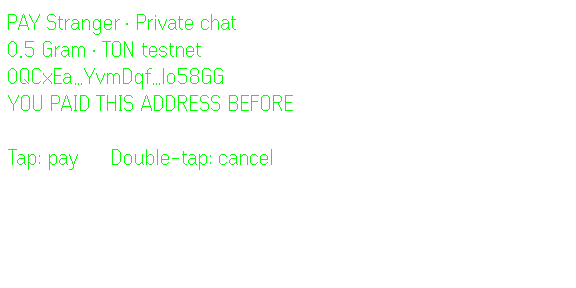
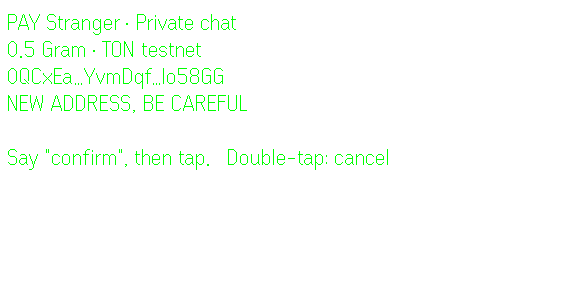
Day 5 proof and docs: payment cards in the simulator, README, .env.example
docs/proof/day5-*: verdict with pay hint, over-limit refusal, payment
card, sent with short hash, new-address card that needs a spoken
'confirm' (a tap before it does nothing). README: Flow B payment steps,
guards and the pluggable payment step. .env.example: GRAMSIGHT_PAY,
limits, TONAPI_KEY, and GROQ_API_KEY for speech-to-text (recommended
provider; not wired yet).

Changed region(s): [[0.0, 0.3125, 0.5, 0.4062], [0.0, 0.5, 0.5625, 0.5938], [0.5938, 0.5312, 0.6875, 0.5625]]

diff --git a/README.md b/README.md
@@ -127,6 +127,9 @@ cd backend; npm run dev
 | `GRAMSIGHT_TELEGRAM=off` | Don't start TDLib (UI work with dry-run) |
 | `GRAMSIGHT_BOT=off` | Don't start the vault bot in this process |
 | `ANTHROPIC_API_KEY` | Optional. Claude reads command phrasing the built-in rules don't understand. Off when unset. |
+| `GRAMSIGHT_PAY=live` | Really pay on **TON testnet** from the testnet payer wallet. **Default is dry-run.** |
+| `GRAMSIGHT_MAX_PAYMENT_GRAM`, `GRAMSIGHT_DAILY_LIMIT_GRAM` | Payment limits: per payment and per rolling 24 hours (default 1 and 3) |
+| `TONAPI_KEY` | Optional tonapi.io key for higher scam-check rate limits |
 
 ### Flow A on the glasses (someone asks for your address)
 
@@ -163,6 +166,23 @@ When an address arrives in a chat, Gramsight checks it in layers and shows one v
 | Matches their Telegram wallet, matches saved contact | One tap |
 
 A layer that fails or times out (4 s) is shown as "couldn't check", never as safe. A full check takes about 1.3 s. Try it from the terminal with `npm run check:address -- <address> [--from @username]`. Proof: [docs/proof/day4-checker.md](docs/proof/day4-checker.md).
+
+Only transfers the payer wallet signed count as "paid before". Dust that bounced off the wallet does not count, because that is how address poisoning plants lookalikes.
+
+### Paying from the verdict card (Flow B)
+
+1. On a verdict card that allows payment, say (for now, type) **"send 1 Gram"**. Code reads the amount and the token; the AI and the chat text never do.
+2. The payment card shows the recipient, amount, network (TON testnet), the address's start, middle and end, and the verdict.
+3. If the verdict needs it (new address, not their Telegram wallet), say **"confirm"** first. Until then, a tap does nothing.
+4. **Tap** to pay. The glasses show "Paying…" at once, then "SENT 1 Gram → Ada · tx …". A double-tap cancels before the tap, never after.
+
+Guards enforced in code:
+- Blocked verdicts never reach a payment card.
+- Only TON addresses can be paid.
+- Limits apply per payment and per rolling 24 hours. They are counted from a ledger on disk, so a restart doesn't reset them.
+- One tap pays at most once. A failed or unconfirmed payment is reported, never retried.
+
+The payment step is pluggable. Today it is the hands-free testnet payer, or a dry run by default. A TON Connect step, where you approve in your own wallet app for larger payments or new addresses, can plug in without changing the glasses flow. Proof: [docs/proof/day5-payments.md](docs/proof/day5-payments.md).
 
 ### The address vault bot
 

diff --git a/docs/proof/day5-payments.md b/docs/proof/day5-payments.md
@@ -1,0 +1,19 @@
+# Day 5 proof: paying from the verdict card (simulator, dry-run rail, 26 Nov 2026)
+
+Backend with `GRAMSIGHT_PAY=dry-run` (the payment step logs instead of broadcasting) and the default limits (1 Gram per payment, 3 Gram per 24 h). Scratch vault with contact `ada`. Simulator 0.9.5. Addresses were simulated with `POST /api/dev/share`, commands typed with `POST /api/command`, and taps were real simulator inputs.
+
+| File | Card |
+|---|---|
+| `day5-01-verdict-pay-hint.png` | Verdict "MATCHES SAVED CONTACT ADA" now ends with "Say: send 1 Gram" |
+| `day5-02-over-limit.png` | "send 5 gram" → "Over your limit. Max 1 Gram per payment." |
+| `day5-03-pay-card.png` | "send 1 Gram" → "PAY Ada · Private chat / 1 Gram · TON testnet / start…middle…end / MATCHES SAVED CONTACT ADA / Tap: pay" |
+| `day5-04-sent.png` | After a simulator tap: "SENT 1 Gram → Ada / TON testnet (dry run) · tx …" |
+| `day5-05-confirm-twice.png` | The real 23 Nov spam sender, "NEW ADDRESS, BE CAREFUL": the payment card asks "Say "confirm", then tap." |
+| `day5-06-confirmed-armed.png` | After "confirm": "Tap: pay" |
+
+What was checked:
+
+- **Taps before "confirm" do nothing.** A tap on the new-address payment card before "confirm" was ignored: the card stayed on `pay` and nothing reached the payment step. After "confirm", one tap paid once, and the backend log shows one `[dry-run] would pay 500000000 nanoGram`.
+- **A bug the simulator run found, now fixed (commit `39e3abb`).** The spam sender first came back as "YOU PAID THIS ADDRESS BEFORE". Its 0.001 Gram had bounced off the uninitialised payer, and the bounce, an outgoing message, was counted as a payment: the exact address-poisoning path the checker exists to stop. Now only wallet-signed transfers count. The real payer's history reads 0 signed transfers, and dry-run payments never count as trust or against limits.
+
+Not yet done: a **live** testnet payment through the glasses flow (`GRAMSIGHT_PAY=live`). The first live broadcast waits for the user's approval.
